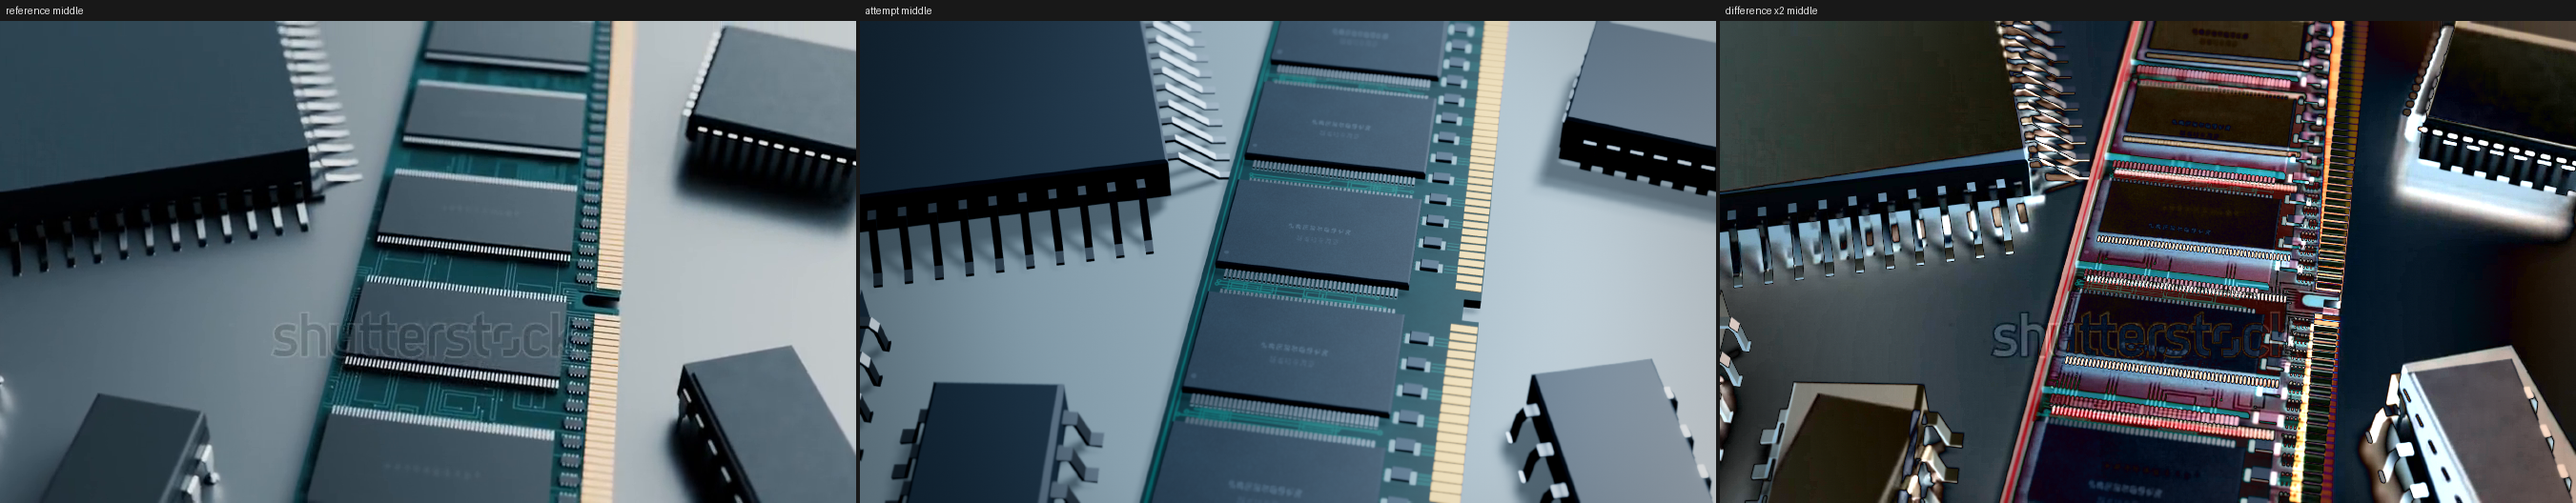
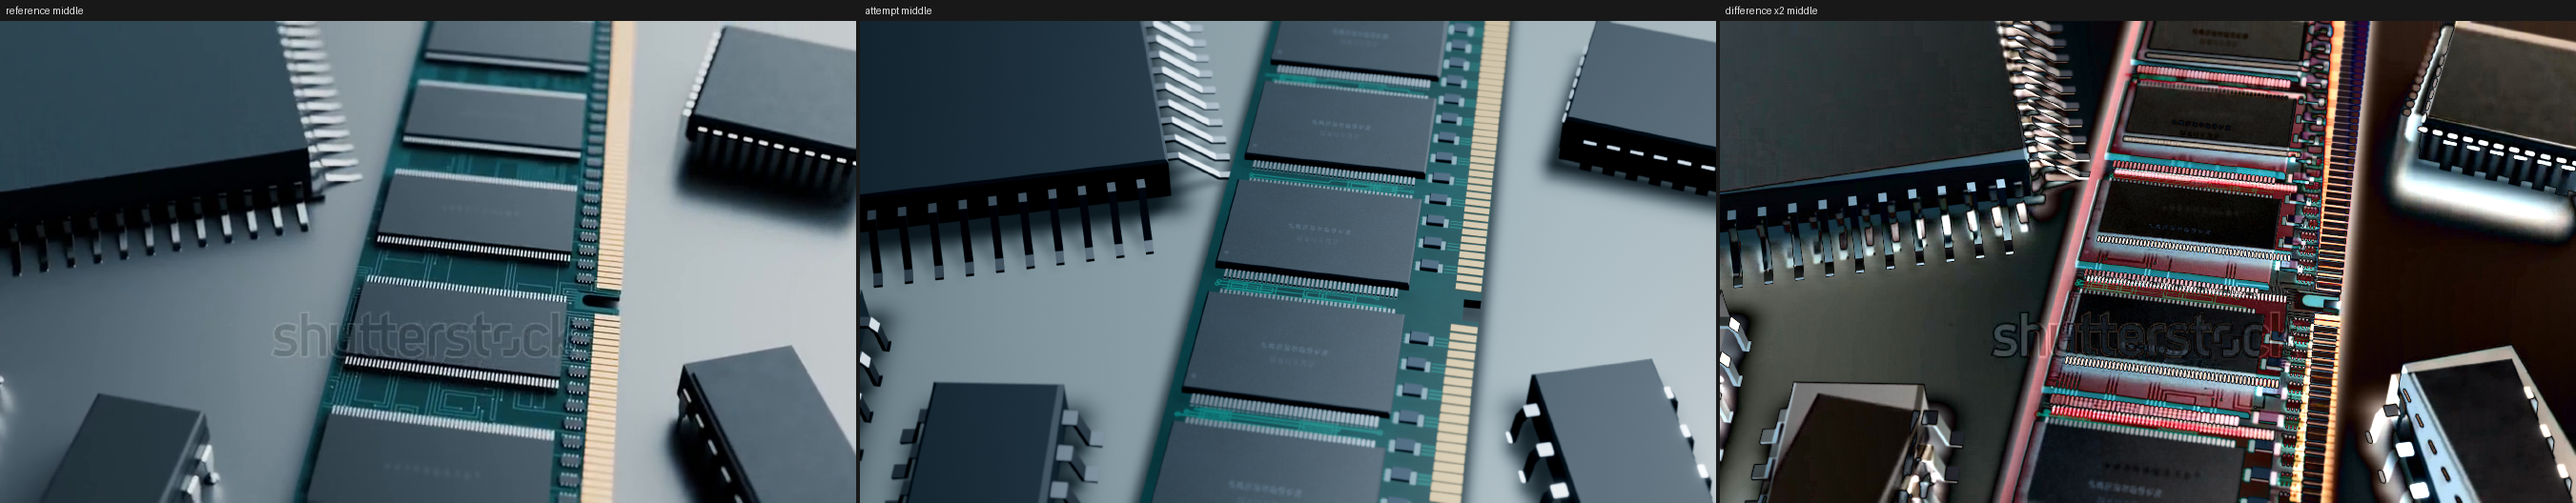
Lock the look for both projects; add verification and packaging tools
Barrels: strip key light, enamel gloss, palette for Version 2.
Chips: three-keyframe camera path, solved package layout, strip softbox,
contact-shadow decals, plan-view camera for Version 2.

Claude-Session: https://claude.ai/code/session_016jjL29YXQo89hH8jtpHEX7

Changed region(s): [[0.4974, 0.0303, 1.0, 1.0], [0.3109, 0.0303, 0.4974, 1.0], [0.3109, 0.6364, 0.3731, 0.7879]]

diff --git a/memory-chips/src/scene/chipsWorld.ts b/memory-chips/src/scene/chipsWorld.ts
@@ -164,6 +164,33 @@ const buildPackage = (
   return group;
 };
 
+/**
+ * Contact shadow decal: fully dark under the part's footprint, fading to nothing
+ * over `margin` outside it. `inner` is the footprint as a fraction of the quad.
+ */
+const contactMaterial = (inner: THREE.Vector2, opacity: number) =>
+  new THREE.ShaderMaterial({
+    transparent: true,
+    depthWrite: false,
+    uniforms: { uInner: { value: inner }, uOpacity: { value: opacity } },
+    vertexShader: /* glsl */ `
+      varying vec2 vUv;
+      void main() {
+        vUv = uv;
+        gl_Position = projectionMatrix * modelViewMatrix * vec4(position, 1.0);
+      }`,
+    fragmentShader: /* glsl */ `
+      uniform vec2 uInner; uniform float uOpacity;
+      varying vec2 vUv;
+      void main() {
+        vec2 p = abs(vUv - 0.5) * 2.0;
+        vec2 d = max(p - uInner, 0.0) / max(1.0 - uInner, vec2(1e-4));
+        float t = clamp(length(d), 0.0, 1.0);
+        float a = pow(1.0 - t * t * (3.0 - 2.0 * t), 2.2);
+        gl_FragColor = vec4(0.0, 0.0, 0.0, a * uOpacity);
+      }`,
+  });
+
 /** Studio surroundings used only for image-based light: one big softbox, dark elsewhere. */
 const buildEnvScene = (boxDir: THREE.Vector3) => {
   const scene = new THREE.Scene();
@@ -207,11 +234,21 @@ export const buildChipsWorld = (): World => {
 
   // ---- materials ------------------------------------------------------------------
   const plastic = keep(
-    new THREE.MeshStandardMaterial({ color: PALETTE.chipBody, roughness: SURFACE.chipRoughness, metalness: 0 }),
+    new THREE.MeshPhysicalMaterial({
+      color: PALETTE.chipBody,
+      roughness: SURFACE.packageRoughness,
+      metalness: 0,
+      ior: SURFACE.packageIor,
+    }),
   );
   const chipTex = keep(buildChipTexture());
   const chipMat = keep(
-    new THREE.MeshStandardMaterial({ map: chipTex, roughness: SURFACE.chipRoughness, metalness: 0 }),
+    new THREE.MeshPhysicalMaterial({
+      map: chipTex,
+      roughness: SURFACE.chipRoughness,
+      metalness: 0,
+      ior: SURFACE.chipIor,
+    }),
   );
   const lead = keep(
     new THREE.MeshStandardMaterial({ color: PALETTE.lead, roughness: SURFACE.leadRoughness, metalness: 1 }),
@@ -233,6 +270,24 @@ export const buildChipsWorld = (): World => {
   table.position.set(0, 0, -MODULE.length / 2);
   table.receiveShadow = true;
   root.add(table);
+
+  // ---- contact shadows: the fill light is not shadowed, so the darkness right under
+  // each part is painted in as a soft decal lying on the table --------------------------
+  const contactGeo = keep(new THREE.PlaneGeometry(1, 1));
+  const addContact = (x: number, y: number, w: number, d: number, rotDeg: number, margin: number) => {
+    const mat = keep(
+      contactMaterial(new THREE.Vector2(w / (w + margin * 2), d / (d + margin * 2)), LIGHT.contactShadow),
+    );
+    const mesh = new THREE.Mesh(contactGeo, mat);
+    mesh.rotation.order = "YXZ";
+    mesh.rotation.set(-Math.PI / 2, deg(rotDeg), 0);
+    mesh.scale.set(w + margin * 2, d + margin * 2, 1);
+    mesh.position.copy(P(x, y, 0.03));
+    mesh.renderOrder = 1;
+    root.add(mesh);
+  };
+  addContact(0, MODULE.length / 2, MODULE.width, MODULE.length, 0, 3);
+  for (const pk of PACKAGES) addContact(pk.x, pk.y, pk.size[0], pk.size[1], pk.rotDeg, pk.kind === "plcc" ? 5 : 6.5);
 
   // ---- circuit board: outline with end notches, keying slot and two holes ------------
   const W = MODULE.width;
@@ -390,7 +445,7 @@ export const buildChipsWorld = (): World => {
     light.shadow.camera.far = dist * 1.7;
     light.shadow.bias = -0.0004;
     light.shadow.normalBias = 0.12;
-    light.shadow.radius = 2.5;
+    light.shadow.radius = 4;
     root.add(light);
     root.add(light.target);
   }

diff --git a/memory-chips/src/look.ts b/memory-chips/src/look.ts
@@ -11,25 +11,27 @@ export const LIGHT = {
   key: {
     color: "#e9f4ff",
     /** candela-like units; falls off with distance squared (scene is in millimetres) */
-    intensity: 3.2e6,
+    intensity: 2.05e6,
     /** position in module coordinates: [x across, y along, height] */
-    position: [260, 420, 620] as [number, number, number],
+    position: [220, 380, 700] as [number, number, number],
     aimAt: [120, 90, 0] as [number, number, number],
     /** half-width of the softbox: staggered lights across it give soft penumbrae */
-    halfSize: 130,
+    halfSize: 170,
     /** length of the strip along the board */
     stripLength: 340,
     /** sideways drift of the aim point per millimetre along the strip (negative = far end aims further left) */
     aimSkew: -0.45,
     /** cone half-angle (radians): the soft cone edge is what darkens the left of the table */
-    coneAngle: 0.27,
+    coneAngle: 0.31,
     samples: 8,
     shadowMapSize: 2048,
   },
+  /** darkness of the soft contact-shadow decals under the parts (0..1) */
+  contactShadow: 0.7,
   /** studio environment for reflections and a little fill */
   env: {
     intensity: 0.3,
-    softbox: 9.0,
+    softbox: 7.5,
     ambient: 0.03,
     /** where the softbox sits in reflections: [x across, y along, height] direction */
     softboxDir: [0.55, 0.8, 0.42] as [number, number, number],
@@ -39,7 +41,12 @@ export const LIGHT = {
 export const SURFACE = {
   tableRoughness: 0.32,
   pcbRoughness: 0.42,
-  chipRoughness: 0.42,
+  chipRoughness: 0.4,
+  /** moulded plastic with a fairly strong sheen */
+  chipIor: 1.7,
+  /** the loose packages are a duller plastic than the memory chips */
+  packageIor: 1.5,
+  packageRoughness: 0.5,
   leadRoughness: 0.28,
   goldRoughness: 0.55,
 } as const;
@@ -48,24 +55,24 @@ export const LENS: LensSettings = {
   near: 20,
   far: 3000,
   msaa: 4,
-  dof: { enabled: true, focusRange: 48, bokehScale: 5.4, resolutionScale: 0.5 },
+  dof: { enabled: true, focusRange: 46, bokehScale: 4.6, resolutionScale: 0.5 },
   motionBlur: { enabled: true, shutter: 0.5, taps: 9 },
-  bloom: { enabled: true, threshold: 0.8, smoothing: 0.2, intensity: 0.25, radius: 0.7, levels: 6 },
+  bloom: { enabled: true, threshold: 0.7, smoothing: 0.25, intensity: 0.5, radius: 0.7, levels: 6 },
 };
 
 export const GRADE: GradeSettings = {
   exposure: 1.0,
-  whiteBalance: [0.98, 1.0, 1.03],
+  whiteBalance: [1.0, 1.0, 1.0],
   toneMapping: "aces",
   contrast: 1.12,
   pivot: 0.4,
-  saturation: 1.1,
-  lift: [0.008, 0.009, 0.01],
+  saturation: 1.2,
+  lift: [0.006, 0.007, 0.008],
   gamma: [1.0, 1.0, 1.0],
   gain: [1.0, 1.0, 1.0],
-  shadowTint: [-0.015, 0.0, 0.01],
+  shadowTint: [-0.025, 0.002, 0.018],
   highlightTint: [0.0, 0.0, 0.0],
-  vignette: 0.2,
+  vignette: 0.05,
   vignetteStart: 0.5,
   grain: 0.0015,
   dither: 1.0,

diff --git a/memory-chips/src/scene/pcbTexture.ts b/memory-chips/src/scene/pcbTexture.ts
@@ -97,10 +97,6 @@ export const buildPcbTexture = (): THREE.CanvasTexture => {
       }
     }
   }
-  // left margin: two long rails with stubs
-  trace([[-MODULE.width / 2 + 0.7, 2.5], [-MODULE.width / 2 + 0.7, MODULE.length - 2.5]], 0.2);
-  trace([[-MODULE.width / 2 + 1.25, 4], [-MODULE.width / 2 + 1.25, MODULE.length - 4]], 0.14);
-
   // pads under every chip pin
   c.fillStyle = PALETTE.pad;
   const pinSpan = (MODULE.pinsPerSide - 1) * MODULE.pinPitch;
@@ -157,7 +153,7 @@ export const buildChipTexture = (): THREE.CanvasTexture => {
   c.globalCompositeOperation = "overlay";
   c.globalAlpha = 0.05;
   c.drawImage(noiseCanvas(256, 164, SEED + 5, 4, 3, 4, 0.55), 0, 0, W, H);
-  c.globalAlpha = 0.14;
+  c.globalAlpha = 0.2;
   c.drawImage(noiseCanvas(1024, 656, SEED + 6, 512, 328, 1), 0, 0, W, H);
   c.globalCompositeOperation = "source-over";
   // etched code: two rows of 5x7 dot-matrix glyphs with random dots (not real characters)

diff --git a/memory-chips/src/config.ts b/memory-chips/src/config.ts
@@ -15,15 +15,15 @@ export const VIDEO = {
 export type Variant = "v1" | "v2";
 
 export const PALETTE = {
-  table: "#93a0a3",
-  pcb: "#083f42",
+  table: "#9aa3a2",
+  pcb: "#0a4a48",
   pcbEdge: "#083b39",
-  trace: "#1c6f69",
+  trace: "#27857b",
   pad: "#8aa0a4",
-  chipBody: "#36454e",
+  chipBody: "#384347",
   chipMark: "#6f7f8a",
-  lead: "#98a2a8",
-  gold: "#b89a6e",
+  lead: "#b4bcc0",
+  gold: "#a8957a",
   smd: "#4f5d66",
 } as const;
 

diff --git a/tools/verify-video.py b/tools/verify-video.py
@@ -1,0 +1,100 @@
+#!/usr/bin/env python3
+"""verify-video.py - technical checks for a delivered MP4.
+
+Usage: python3 tools/verify-video.py <video.mp4> --frames N --ref-duration S [--sheet out.png]
+
+Checks: container/stream specs (ffprobe), duration against the reference, full
+decode without errors, and a per-frame scan for black frames, frozen/duplicated
+frames and brightness jumps (flicker). Optionally writes a one-frame-per-second
+contact sheet. Prints a JSON summary; exit code 1 if any check fails.
+"""
+import argparse
+import json
+import subprocess
+import sys
+
+import numpy as np
+
+
+def run(cmd):
+    return subprocess.run(cmd, capture_output=True, text=True)
+
+
+def main():
+    ap = argparse.ArgumentParser()
+    ap.add_argument("video")
+    ap.add_argument("--frames", type=int, required=True)
+    ap.add_argument("--ref-duration", type=float, required=True)
+    ap.add_argument("--sheet")
+    a = ap.parse_args()
+    out = {"file": a.video, "checks": {}}
+    ok = True
+
+    p = run(["ffprobe", "-v", "error", "-count_frames", "-show_streams", "-show_format", "-of", "json", a.video])
+    info = json.loads(p.stdout)
+    vs = [s for s in info["streams"] if s["codec_type"] == "video"]
+    aus = [s for s in info["streams"] if s["codec_type"] == "audio"]
+    v = vs[0]
+    spec = {
+        "width": v["width"], "height": v["height"], "codec": v["codec_name"], "pix_fmt": v["pix_fmt"],
+        "r_frame_rate": v["r_frame_rate"], "avg_frame_rate": v["avg_frame_rate"],
+        "nb_read_frames": int(v["nb_read_frames"]), "audio_streams": len(aus),
+        "duration": float(info["format"]["duration"]), "size_bytes": int(info["format"]["size"]),
+    }
+    out["spec"] = spec
+    c = out["checks"]
+    c["1920x1080"] = spec["width"] == 1920 and spec["height"] == 1080
+    c["h264"] = spec["codec"] == "h264"
+    c["yuv420p"] = spec["pix_fmt"] == "yuv420p"
+    c["30/1 fps"] = spec["r_frame_rate"] == "30/1" and spec["avg_frame_rate"] == "30/1"
+    c["frame count"] = spec["nb_read_frames"] == a.frames
+    c["no audio"] = spec["audio_streams"] == 0
+    out["duration_diff_s"] = round(spec["duration"] - a.ref_duration, 4)
+    c["duration within one frame"] = abs(spec["duration"] - a.ref_duration) < 1 / 30
+
+    d = run(["ffmpeg", "-v", "error", "-i", a.video, "-f", "null", "-"])
+    out["decode_errors"] = d.stderr.strip()
+    c["decodes cleanly"] = d.returncode == 0 and not d.stderr.strip()
+
+    # per-frame scan on small greyscale frames
+    w, h = 320, 180
+    raw = subprocess.run(
+        ["ffmpeg", "-v", "error", "-i", a.video, "-vf", f"scale={w}:{h}:flags=area,format=gray", "-f", "rawvideo", "-"],
+        capture_output=True,
+    ).stdout
+    fr = np.frombuffer(raw, np.uint8).reshape(-1, h, w).astype(np.float32)
+    means = fr.mean(axis=(1, 2))
+    diffs = np.abs(fr[1:] - fr[:-1]).mean(axis=(1, 2))
+    dmean = np.abs(np.diff(means))
+    scan = {
+        "frames_scanned": int(len(fr)),
+        "mean_min": float(means.min()), "mean_max": float(means.max()),
+        "black_frames": [int(i) for i in np.nonzero(means < 2.0)[0]],
+        "frame_diff_min": float(diffs.min()), "frame_diff_median": float(np.median(diffs)), "frame_diff_max": float(diffs.max()),
+        "frozen_pairs": [int(i) for i in np.nonzero(diffs < 0.02)[0]],
+        "max_brightness_step": float(dmean.max()), "max_brightness_step_at": int(dmean.argmax()),
+        # a jump is a step far outside the clip's own frame-to-frame variation
+        "flicker_frames": [int(i) for i in np.nonzero(dmean > max(1.5, 8 * float(np.median(dmean)) + 0.5))[0]],
+        "diff_spikes": [int(i) for i in np.nonzero(diffs > 4 * float(np.median(diffs)) + 1.0)[0]],
+    }
+    out["scan"] = scan
+    c["no black frames"] = not scan["black_frames"]
+    c["no frozen frames"] = not scan["frozen_pairs"]
+    c["no brightness jumps"] = not scan["flicker_frames"] and not scan["diff_spikes"]
+
+    if a.sheet:
+        secs = max(1, int(round(a.frames / 30)))
+        cols = 5
+        rows = (secs + cols - 1) // cols
+        subprocess.run(["ffmpeg", "-v", "error", "-y", "-i", a.video, "-vf",
+                        f"select='not(mod(n,30))',scale=480:-1,tile={cols}x{rows}", "-frames:v", "1", a.sheet])
+        out["sheet"] = a.sheet
+
+    ok = all(c.values())
+    out["pass"] = ok
+    print(json.dumps(out, indent=1))
+    return 0 if ok else 1
+
+
+if __name__ == "__main__":
+    sys.exit(main())
